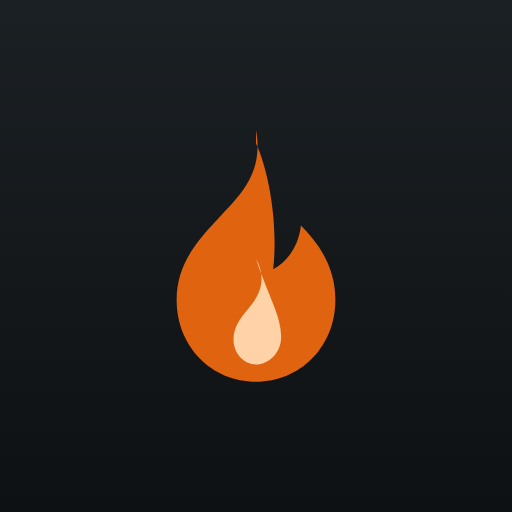
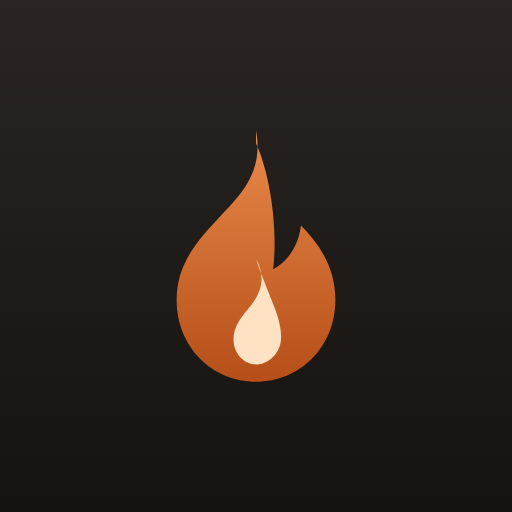
Premium izgled: zaobljeno, toplo, sa bakarnim akcentom
Topla neutralna podloga i bijele površine sa blagom sjenkom, zaobljene
ivice, Upis/Pretraga kao segmentirani prekidač, bakarni prelaz na
glavnom dugmetu i izabranoj stranici. Cedulja sa brojem ostaje, finija.
Fontovi: Bricolage Grotesque (natpisi, brojevi) i Figtree (tekst).
Nova ikonica: bakarni plamen na tamnoj podlozi.

Claude-Session: https://claude.ai/code/session_01CkzujkQaC9rE6yzhtZT9nM

Changed region(s): [[0.3438, 0.2812, 0.6562, 0.75]]

diff --git a/index.html b/index.html
@@ -4,7 +4,8 @@
 <meta charset="utf-8">
 <meta name="viewport" content="width=device-width,initial-scale=1,viewport-fit=cover">
 <title>Evidencija pečenja</title>
-<meta name="theme-color" content="#111417">
+<meta name="theme-color" content="#f1efec" media="(prefers-color-scheme: light)">
+<meta name="theme-color" content="#121110" media="(prefers-color-scheme: dark)">
 <meta name="apple-mobile-web-app-capable" content="yes">
 <meta name="mobile-web-app-capable" content="yes">
 <meta name="apple-mobile-web-app-status-bar-style" content="default">
@@ -23,8 +24,8 @@ img{max-width:100%}
 <link rel="preconnect" href="https://fonts.gstatic.com" crossorigin>
 <link rel="preconnect" href="https://www.gstatic.com" crossorigin>
 <link rel="preconnect" href="https://firestore.googleapis.com" crossorigin>
-<link href="https://fonts.googleapis.com/css2?family=Archivo:wght@400;500;600;700&family=Big+Shoulders+Display:wght@700;800&family=IBM+Plex+Mono:wght@400;500&display=swap" rel="stylesheet" media="print" onload="this.media='all'">
-<noscript><link href="https://fonts.googleapis.com/css2?family=Archivo:wght@400;500;600;700&family=Big+Shoulders+Display:wght@700;800&family=IBM+Plex+Mono:wght@400;500&display=swap" rel="stylesheet"></noscript>
+<link href="https://fonts.googleapis.com/css2?family=Bricolage+Grotesque:opsz,wght@12..96,600;12..96,700;12..96,800&family=Figtree:wght@400;500;600;700&display=swap" rel="stylesheet" media="print" onload="this.media='all'">
+<noscript><link href="https://fonts.googleapis.com/css2?family=Bricolage+Grotesque:opsz,wght@12..96,600;12..96,700;12..96,800&family=Figtree:wght@400;500;600;700&display=swap" rel="stylesheet"></noscript>
 <style>
 /* Layout: one narrow column built for a phone at the counter: title, two page tabs (Upis / Kidanje), shared date bar, then the page itself. Rows are ticket-style: number stub on the left, customer in the middle, actions on the right. */
 :root{
@@ -574,162 +575,171 @@ body.locked .wrap{display:none}
 }
 
 /* =====================================================================
-   REDIZAJN: pult pečenjare.
-   Čelik i emajl: hladna siva podloga, crna slova, tvrde ivice, bez mekih
-   „kartica“. Jedini akcenat je boja žara. Svaki upis je cedulja sa brojem:
-   lijevo otkinuti dio sa brojem, perforacija i zarezi kao na pravoj cedulji.
-   Slova: Big Shoulders Display (natpisi i brojevi), Archivo (tekst),
-   IBM Plex Mono (vrijeme i telefoni).
+   DIZAJN: „žar i dim“.
+   Mirna, topla neutralna podloga, bijele površine sa blagom sjenkom,
+   zaobljene ivice. Jedan akcenat: bakarni sjaj žara (dugme Dodaj,
+   izabrana stranica, brojevi koji traže pažnju). Upis je i dalje cedulja
+   sa brojem (perforacija i zarezi), ali fina, ne grubo kockasta.
+   Slova: Bricolage Grotesque (natpisi i brojevi), Figtree (tekst).
    ===================================================================== */
 :root{
-  --bg:#e3e6e8; --surface:#f6f7f7; --field:#ffffff; --ink:#111417; --muted:#5b646c; --line:#c4cbd0;
-  --ember:#b5480a; --on-ember:#ffffff; --zar:#e0640f;
-  --jagnje:#4d6a24; --prase:#a8355c; --drugo:#86570c; --ok:#1d6a3a; --danger:#a5180f;
-  --f-display:'Big Shoulders Display','Arial Narrow',Arial,sans-serif;
-  --f-body:'Archivo',system-ui,-apple-system,'Segoe UI',sans-serif;
-  --f-mono:'IBM Plex Mono',ui-monospace,Menlo,Consolas,monospace;
-  --r:3px;
+  --bg:#f1efec; --surface:#ffffff; --field:#faf9f7; --ink:#1d1a18; --muted:#736c66; --line:#e6e2dd;
+  --ember:#b5521c; --on-ember:#ffffff; --zar:#c45e22; --zar2:#9f4314;
+  --jagnje:#55702c; --prase:#ad3d63; --drugo:#8f5e12; --ok:#23764a; --danger:#b3261e;
+  --f-display:'Bricolage Grotesque','Arial Narrow',Arial,sans-serif;
+  --f-body:'Figtree',system-ui,-apple-system,'Segoe UI',sans-serif;
+  --f-mono:'Figtree',system-ui,-apple-system,sans-serif;
+  --r:16px; --r-s:11px;
+  --sh:0 1px 2px rgba(40,28,18,.06), 0 6px 20px rgba(40,28,18,.06);
+  --sh-lift:0 2px 6px rgba(40,28,18,.08), 0 12px 32px rgba(40,28,18,.10);
 }
 @media (prefers-color-scheme: dark){
   :root:not([data-theme="light"]){
-    --bg:#0e1113; --surface:#171b1e; --field:#1e2327; --ink:#eef1f3; --muted:#97a1a9; --line:#2d343a;
-    --ember:#ff8a3d; --on-ember:#1a0b02; --zar:#ff8a3d;
-    --jagnje:#a9c47a; --prase:#ef93b2; --drugo:#e2b45a; --ok:#7fcf98; --danger:#ff8a80;
+    --bg:#121110; --surface:#1c1a18; --field:#242120; --ink:#f4efe9; --muted:#a59c94; --line:#33302c;
+    --ember:#ef9356; --on-ember:#1c0e05; --zar:#e47a3b; --zar2:#c35c22;
+    --jagnje:#aac77c; --prase:#f095b4; --drugo:#e6b863; --ok:#7fd29d; --danger:#ff8c83;
+    --sh:0 1px 0 rgba(255,255,255,.03) inset, 0 8px 24px rgba(0,0,0,.35);
+    --sh-lift:0 1px 0 rgba(255,255,255,.04) inset, 0 14px 36px rgba(0,0,0,.45);
     color-scheme:dark;
   }
 }
 :root[data-theme="dark"]{
-  --bg:#0e1113; --surface:#171b1e; --field:#1e2327; --ink:#eef1f3; --muted:#97a1a9; --line:#2d343a;
-  --ember:#ff8a3d; --on-ember:#1a0b02; --zar:#ff8a3d;
-  --jagnje:#a9c47a; --prase:#ef93b2; --drugo:#e2b45a; --ok:#7fcf98; --danger:#ff8a80;
+  --bg:#121110; --surface:#1c1a18; --field:#242120; --ink:#f4efe9; --muted:#a59c94; --line:#33302c;
+  --ember:#ef9356; --on-ember:#1c0e05; --zar:#e47a3b; --zar2:#c35c22;
+  --jagnje:#aac77c; --prase:#f095b4; --drugo:#e6b863; --ok:#7fd29d; --danger:#ff8c83;
+  --sh:0 1px 0 rgba(255,255,255,.03) inset, 0 8px 24px rgba(0,0,0,.35);
+  --sh-lift:0 1px 0 rgba(255,255,255,.04) inset, 0 14px 36px rgba(0,0,0,.45);
   color-scheme:dark;
 }
 
-body{font-family:var(--f-body); letter-spacing:.005em}
-h1{font-family:var(--f-display); font-weight:800; letter-spacing:.02em; font-size:34px}
+body{font-family:var(--f-body); background:var(--bg); -webkit-font-smoothing:antialiased}
+h1{font-family:var(--f-display); font-weight:800; letter-spacing:-.01em; text-transform:none; font-size:30px}
 h1 .mark{color:var(--zar)}
-@media (max-width:420px){ h1{font-size:28px} }
+@media (max-width:420px){ h1{font-size:26px} }
 
-/* tvrde ivice svuda */
+/* površine: zaobljene, bez okvira, sa blagom sjenkom */
 .tabs,.tally,form,.row,.sescard,.staffadmin,.staff,a.sesstaff,.empty,.notice,.hsum,.undo,.sesitem,.settings,.lcard,.bcbox{border-radius:var(--r)}
-.btn,.status,.ghost,.locb,.cpb,.chip,.field,.seg label,.qkb,.lchips button{border-radius:2px}
-.row,.tabs,.tally,form,.settings,.sescard{box-shadow:none}
+.tally,form,.row,.sescard,.settings,.lcard,.hdrrow > .staff,a.sesstaff{background:var(--surface); border:1px solid var(--line); box-shadow:var(--sh)}
+.btn,.status,.ghost,.locb,.cpb,.field,.seg label,.qkb,.lchips button,.themebtn{border-radius:var(--r-s)}
+.chip{border-radius:999px}
 
-/* zaglavlje: Radi / Događaj kao dvije pločice sa natpisom */
-.hdrrow > .staff, a.sesstaff{background:var(--surface); border:1px solid var(--line)}
-.sesl, .staff .l{font-family:var(--f-mono); font-size:11px; font-weight:500; letter-spacing:.06em; color:var(--ember)}
-.sesm{font-family:var(--f-mono); font-size:11.5px}
-.curname .sesn, .sesn{font-family:var(--f-display); font-weight:800; font-size:26px; letter-spacing:.01em}
-a.sesstaff[aria-current]{border-color:var(--ink); background:var(--surface)}
+/* zaglavlje */
+.sesl, .staff .l{font-family:var(--f-body); font-size:11px; font-weight:700; letter-spacing:.12em; text-transform:uppercase; color:var(--ember)}
+.sesm{font-family:var(--f-body); font-size:12.5px; font-variant-numeric:tabular-nums}
+.curname .sesn, .sesn{font-family:var(--f-display); font-weight:700; font-size:23px; letter-spacing:-.01em; text-transform:none}
+a.sesstaff[aria-current]{box-shadow:0 0 0 2px var(--zar), var(--sh)}
+.themebtn{background:var(--surface); border:1px solid var(--line); box-shadow:var(--sh); display:grid; place-items:center}
+.themebtn svg{width:20px; height:20px}
 
-/* Upis / Pretraga: emajlirana tabla */
-.tabs{border:2px solid var(--ink); background:var(--surface); box-shadow:none}
-.tab{font-family:var(--f-display); font-weight:800; font-size:27px; letter-spacing:.06em; color:var(--ink); height:58px}
-.tab + .tab{border-left:2px solid var(--ink)}
-.tab:hover{background:color-mix(in srgb, var(--ink) 6%, var(--surface))}
-.tab[aria-current="page"], .tab[aria-current="page"]:hover{background:var(--ink); color:var(--bg)}
-.tab .n{background:var(--zar); color:#fff; border-radius:2px; font-family:var(--f-mono); font-size:14px; font-weight:500; min-width:24px; height:24px}
-.tab[aria-current="page"] .n{background:var(--zar); color:#fff}
-@media (max-width:420px){ .tab{font-size:23px} }
+/* Upis / Pretraga: segmentirani prekidač */
+.tabs{background:var(--surface); border:1px solid var(--line); box-shadow:var(--sh); padding:5px; gap:5px; display:grid; grid-template-columns:1fr 1fr}
+.tab{font-family:var(--f-display); font-weight:700; font-size:21px; letter-spacing:.01em; text-transform:none; color:var(--muted); height:52px; border-radius:12px}
+.tab + .tab{border-left:0}
+.tab:hover{background:color-mix(in srgb, var(--ink) 5%, transparent); color:var(--ink)}
+.tab[aria-current="page"], .tab[aria-current="page"]:hover{background:linear-gradient(180deg, var(--zar), var(--zar2)); color:#fff; box-shadow:0 4px 14px color-mix(in srgb, var(--zar) 35%, transparent)}
+.tab .n{background:var(--ink); color:var(--surface); border-radius:999px; font-family:var(--f-body); font-size:12px; font-weight:700; min-width:22px; height:22px}
+.tab[aria-current="page"] .n{background:rgba(255,255,255,.95); color:var(--zar2)}
+@media (max-width:420px){ .tab{font-size:19px} }
 
-/* zbir: brojevi kao na tabli */
-.tally{background:var(--surface); border:1px solid var(--line)}
-.tally dt{font-family:var(--f-mono); font-size:11px; font-weight:500; letter-spacing:.04em; text-transform:uppercase; color:var(--muted)}
-.tally dd{font-family:var(--f-display); font-weight:800; font-size:44px; line-height:.95}
+/* zbir */
+.tally dt{font-family:var(--f-body); font-size:12px; font-weight:600; letter-spacing:.02em; text-transform:none; color:var(--muted)}
+.tally dd{font-family:var(--f-display); font-weight:700; font-size:38px; line-height:1; letter-spacing:-.02em}
+.tally div + div{border-left:1px solid var(--line)}
 
 /* forma */
-form{background:var(--surface); border:1px solid var(--line)}
-legend,label.l{font-family:var(--f-mono); font-size:11px; font-weight:500; letter-spacing:.06em}
-.field{border:1.5px solid var(--line); background:var(--field)}
-.field:focus{border-color:var(--ink); outline:none; box-shadow:0 0 0 3px color-mix(in srgb, var(--zar) 35%, transparent)}
-input.num{font-family:var(--f-display); font-weight:800; font-size:32px}
-.seg label{font-family:var(--f-display); font-weight:800; letter-spacing:.05em; border-width:2px}
-.btn{font-family:var(--f-body); font-weight:700; letter-spacing:.01em}
-#submit{font-family:var(--f-display); font-weight:800; font-size:26px; letter-spacing:.08em; text-transform:uppercase; background:var(--zar); color:#fff}
-.btn.sec{border:1.5px solid var(--ink); color:var(--ink); background:transparent}
+legend,label.l{font-family:var(--f-body); font-size:11.5px; font-weight:700; letter-spacing:.1em}
+.field{border:1px solid var(--line); background:var(--field); transition:border-color .15s, box-shadow .15s}
+.field:focus{border-color:var(--zar); outline:none; box-shadow:0 0 0 4px color-mix(in srgb, var(--zar) 18%, transparent)}
+input.num{font-family:var(--f-display); font-weight:700; font-size:28px}
+.seg label{font-family:var(--f-display); font-weight:700; letter-spacing:.01em; text-transform:none; border:1px solid var(--line); background:var(--field)}
+.seg input:checked + label.j, .seg input:checked + label.p, .seg input:checked + label.o,
+.seg input:checked + label.k, .seg input:checked + label.n{border-width:2px}
+.btn{font-family:var(--f-body); font-weight:700}
+.btn.sec{border:1px solid var(--line); color:var(--ink); background:var(--surface)}
+#submit{font-family:var(--f-display); font-weight:700; font-size:22px; letter-spacing:.02em; text-transform:none;
+  background:linear-gradient(180deg, var(--zar), var(--zar2)); color:#fff; box-shadow:0 6px 18px color-mix(in srgb, var(--zar) 32%, transparent)}
+.ghost{border:1px solid var(--line); background:var(--surface)}
 
-/* filteri: četvrtaste oznake, ne pilule */
-.chip{border:1.5px solid var(--line); background:var(--surface); font-weight:600}
-.chip b{border-radius:2px; font-family:var(--f-mono); font-weight:500; background:var(--bg)}
-.chip[aria-pressed="true"]{background:var(--ink); color:var(--bg); border-color:var(--ink)}
-.chip[aria-pressed="true"] b{background:color-mix(in srgb, var(--bg) 20%, transparent)}
+/* filteri */
+.chip{border:1px solid var(--line); background:var(--surface); font-weight:600; box-shadow:0 1px 2px rgba(40,28,18,.04)}
+.chip b{border-radius:999px; font-family:var(--f-body); font-weight:700; background:var(--bg)}
+.chip[aria-pressed="true"]{background:var(--ink); color:var(--surface); border-color:var(--ink)}
+.chip[aria-pressed="true"] b{background:color-mix(in srgb, var(--surface) 20%, transparent)}
 
 /* ===== cedulja sa brojem ===== */
-.row{background:var(--surface); border:1px solid var(--line); overflow:hidden}
-.stub{position:relative; border-right:2px dashed color-mix(in srgb, var(--ink) 28%, transparent); padding-top:8px; padding-bottom:8px}
+.row{overflow:hidden}
+.stub{position:relative; border-right:1.5px dashed var(--line)}
+.t-jagnje .stub{background:linear-gradient(180deg, color-mix(in srgb, var(--jagnje) 12%, var(--surface)), color-mix(in srgb, var(--jagnje) 6%, var(--surface)))}
+.t-prase .stub{background:linear-gradient(180deg, color-mix(in srgb, var(--prase) 12%, var(--surface)), color-mix(in srgb, var(--prase) 6%, var(--surface)))}
+.t-drugo .stub{background:linear-gradient(180deg, color-mix(in srgb, var(--drugo) 12%, var(--surface)), color-mix(in srgb, var(--drugo) 6%, var(--surface)))}
 .row{position:relative; --stubw:58px}
 @media (min-width:560px){ .row{--stubw:62px} }
 html.big .row{--stubw:72px}
 @media (min-width:560px){ html.big .row{--stubw:80px} }
-.row::before,.row::after{content:""; position:absolute; left:calc(var(--stubw) - 8px); width:16px; height:16px; border-radius:50%; background:var(--bg); border:1px solid var(--line); z-index:1; pointer-events:none}
-.row::before{top:-9px}
-.row::after{bottom:-9px}
-.stub-l{font-family:var(--f-mono); font-size:10px; font-weight:500; letter-spacing:.06em}
-.stub-n{font-family:var(--f-display); font-weight:800; font-size:40px; line-height:.9}
-.name{font-family:var(--f-body); font-weight:700; font-size:18px}
-.when{font-family:var(--f-mono); font-size:11.5px}
-.note{border-left:3px solid var(--zar)}
-.tag{border-radius:2px; font-family:var(--f-mono); font-weight:500; font-size:10.5px; letter-spacing:.04em; padding:2px 6px;
-  background:transparent; border:1.5px solid currentColor}
-.tag.r{border:1.5px solid var(--danger); background:transparent}
-.tag.ok{background:color-mix(in srgb, var(--ok) 12%, transparent)}
-.row.done{background:color-mix(in srgb, var(--surface) 50%, var(--bg))}
-.row.done .stub{opacity:.6}
-.status{border:2px solid var(--ember); color:var(--ember); font-weight:700}
-.status[aria-pressed="true"]{border-color:var(--ok); color:var(--ok); background:color-mix(in srgb, var(--ok) 10%, transparent)}
-.ghost{border:1.5px solid var(--line); font-weight:600}
-.cpb{font-family:var(--f-mono); font-weight:500; border:1.5px solid var(--line); background:var(--field); gap:6px}
-.cpb svg{width:14px; height:14px; flex:0 0 auto}
-.locb{border:1.5px solid var(--line); font-weight:600}
-.locb[aria-pressed="true"]{background:var(--ink); border-color:var(--ink); color:var(--bg)}
+.row::before,.row::after{content:""; position:absolute; left:calc(var(--stubw) - 7px); width:14px; height:14px; border-radius:50%; background:var(--bg); z-index:1; pointer-events:none}
+.row::before{top:-7px; box-shadow:inset 0 -1px 0 var(--line)}
+.row::after{bottom:-7px; box-shadow:inset 0 1px 0 var(--line)}
+.stub-l{font-family:var(--f-body); font-size:10px; font-weight:700; letter-spacing:.1em}
+.stub-n{font-family:var(--f-display); font-weight:800; font-size:36px; line-height:1; letter-spacing:-.02em}
+.name{font-family:var(--f-body); font-weight:700; font-size:17.5px; letter-spacing:-.005em}
+.when{font-family:var(--f-body); font-size:12px; font-variant-numeric:tabular-nums}
+.note{border-left:3px solid var(--zar); border-radius:2px}
+.tag{border-radius:999px; font-family:var(--f-body); font-weight:700; font-size:10.5px; letter-spacing:.06em; padding:2px 8px;
+  border:0; background:color-mix(in srgb, currentColor 11%, transparent)}
+.tag.r{border:0; background:color-mix(in srgb, var(--danger) 13%, transparent)}
+.row.done{background:color-mix(in srgb, var(--surface) 70%, var(--bg)); box-shadow:none}
+.row.done .stub{opacity:.65}
+.status{border:1.5px solid color-mix(in srgb, var(--ember) 70%, transparent); color:var(--ember); background:color-mix(in srgb, var(--ember) 6%, transparent); font-weight:700}
+.status[aria-pressed="true"]{border-color:color-mix(in srgb, var(--ok) 60%, transparent); color:var(--ok); background:color-mix(in srgb, var(--ok) 10%, transparent)}
+.cpb{font-family:var(--f-body); font-weight:600; border:1px solid var(--line); background:var(--field); gap:6px; font-variant-numeric:tabular-nums}
+.cpb svg{width:14px; height:14px; flex:0 0 auto; color:var(--ember)}
+.locb{border:1px solid var(--line); background:var(--field); font-weight:600}
+.locb[aria-pressed="true"]{background:var(--ink); border-color:var(--ink); color:var(--surface)}
 
 /* po satu dolaska */
-.hhead{font-family:var(--f-display); font-weight:800; font-size:24px}
+.hhead{font-family:var(--f-display); font-weight:700; font-size:20px; text-transform:none; letter-spacing:0}
 
 /* događaji */
-.sescard h2, .lcard h2{font-family:var(--f-display); font-weight:800; font-size:26px; letter-spacing:.04em}
-.sumgrid dt{font-family:var(--f-body)}
-.sumgrid dd{font-family:var(--f-mono); font-weight:500}
-.sesitem .sin{font-family:var(--f-display); font-weight:800; font-size:26px}
-.sesitem .sim{font-family:var(--f-mono); font-size:11.5px}
-.sesitem .sbad{border-radius:2px; font-family:var(--f-mono); font-weight:500; background:var(--zar); color:#fff}
-.sescnt span{border-radius:2px; font-family:var(--f-mono); font-weight:500; font-size:12px}
-.wt th{font-family:var(--f-mono); font-weight:500}
-.wt td{font-family:var(--f-mono)}
-.wt td:first-child{font-family:var(--f-body)}
+.sescard h2, .lcard h2{font-family:var(--f-display); font-weight:700; font-size:21px; letter-spacing:-.005em; text-transform:none}
+.sumgrid dd{font-family:var(--f-body); font-weight:700; font-variant-numeric:tabular-nums}
+.sesitem{background:var(--field); border:1px solid var(--line)}
+.sesitem.on{border:2px solid var(--zar); background:color-mix(in srgb, var(--zar) 5%, var(--field))}
+.sesitem .sin{font-family:var(--f-display); font-weight:700; font-size:21px; text-transform:none}
+.sesitem .sim{font-family:var(--f-body); font-size:12.5px}
+.sesitem .sbad{border-radius:999px; font-family:var(--f-body); font-weight:700; background:var(--zar); color:#fff}
+.sescnt span{border-radius:999px; font-family:var(--f-body); font-weight:600; font-size:12.5px; border:1px solid var(--line); background:var(--surface)}
+.wt th{font-family:var(--f-body); font-weight:700}
+.wt td{font-family:var(--f-body); font-variant-numeric:tabular-nums}
 
 /* podešavanja */
-.settings{background:var(--surface); border:1px solid var(--line)}
-.settings > summary{font-family:var(--f-display); font-weight:800; font-size:26px; letter-spacing:.06em}
+.settings > summary{font-family:var(--f-display); font-weight:700; font-size:21px; letter-spacing:-.005em; text-transform:none}
 .settings > summary svg{color:var(--zar)}
-.staffadmin summary{font-family:var(--f-display); font-weight:800; letter-spacing:.06em}
-.setgrid .staffadmin{background:var(--field); border:1px solid var(--line)}
+.staffadmin summary{font-family:var(--f-display); font-weight:700; letter-spacing:0; text-transform:none}
+.setgrid .staffadmin{background:var(--field); border:1px solid var(--line); border-radius:12px}
 
 /* dijalozi */
-.bcwhat{font-family:var(--f-display); font-weight:800}
-.callnum{font-family:var(--f-mono); font-weight:500}
-.kgrid .btn{font-family:var(--f-display); font-weight:800; font-size:26px; letter-spacing:.04em; background:var(--ok)}
-.bcbox{border:2px solid var(--ink); box-shadow:none}
+.bconf{background:rgba(18,14,10,.5); backdrop-filter:blur(4px); -webkit-backdrop-filter:blur(4px)}
+.bcbox{border:1px solid var(--line); box-shadow:var(--sh-lift)}
+.bcwhat{font-family:var(--f-display); font-weight:800; letter-spacing:-.02em}
+.callnum{font-family:var(--f-display); font-weight:700; font-variant-numeric:tabular-nums}
+.kgrid .btn{font-family:var(--f-display); font-weight:700; font-size:22px; background:var(--ok); color:#fff}
 
 /* prijava */
-.lico{border-radius:6px; box-shadow:none; border:1px solid var(--line)}
-.lbox h1{font-size:36px}
-.lchips button{font-family:var(--f-display); font-weight:800; font-size:26px; border:2px solid var(--line)}
-.lpin .who{font-family:var(--f-display); font-weight:800; font-size:34px}
-.lpin .field{font-family:var(--f-display); font-weight:800}
-.lfoot, .lpin .l{font-family:var(--f-mono)}
-
-/* tema */
-.themebtn{display:grid; place-items:center; border:1.5px solid var(--line)}
-.themebtn svg{width:20px; height:20px}
+.lico{border-radius:18px; box-shadow:var(--sh-lift); border:0}
+.lbox h1{font-size:32px}
+.lchips button{font-family:var(--f-display); font-weight:700; font-size:21px; border:1px solid var(--line); background:var(--field)}
+.lchips button:active{border-color:var(--zar)}
+.lpin .who{font-family:var(--f-display); font-weight:800; font-size:30px}
+.lpin .field{font-family:var(--f-display); font-weight:700}
+.lfoot, .lpin .l{font-family:var(--f-body)}
 
 /* toast i nova verzija */
-.toast{border-radius:var(--r); border:2px solid var(--ok); box-shadow:none; font-family:var(--f-body)}
-.novaverzija button{border-radius:2px}
+.toast{border-radius:14px; border:0; background:var(--ink); color:var(--surface); box-shadow:var(--sh-lift); font-family:var(--f-body)}
+.novaverzija button{border-radius:var(--r-s)}
 
-/* krupna slova: isti stil, veće */
-html.big .stub-n{font-size:48px}
-html.big .name{font-size:22px}
+/* krupna slova */
+html.big .stub-n{font-size:46px}
+html.big .name{font-size:21px}
 html.big .tag{font-size:12.5px}
 html.big .when{font-size:14px}
 </style>

diff --git a/sw.js b/sw.js
@@ -1,5 +1,5 @@
 /* Čuva aplikaciju na telefonu da se otvori i bez interneta. Podatke čuva Firebase. */
-const VERZIJA = 'pecenje-v14';
+const VERZIJA = 'pecenje-v15';
 const OSNOVA = ['./', 'index.html', 'app.js', 'shim.js', 'config.js', 'manifest.webmanifest',
   'icons/icon-192.png', 'icons/icon-512.png', 'icons/apple-touch-icon.png', 'vendor/jspdf.umd.min.js'];
 

diff --git a/config.js b/config.js
@@ -8,4 +8,4 @@ window.PECENJE_CONFIG = {
   messagingSenderId: "304118447350",
   appId: "1:304118447350:web:d4e0ea3d452e04badb40d7"
 };
-window.PECENJE_VERZIJA = "14";
+window.PECENJE_VERZIJA = "15";
